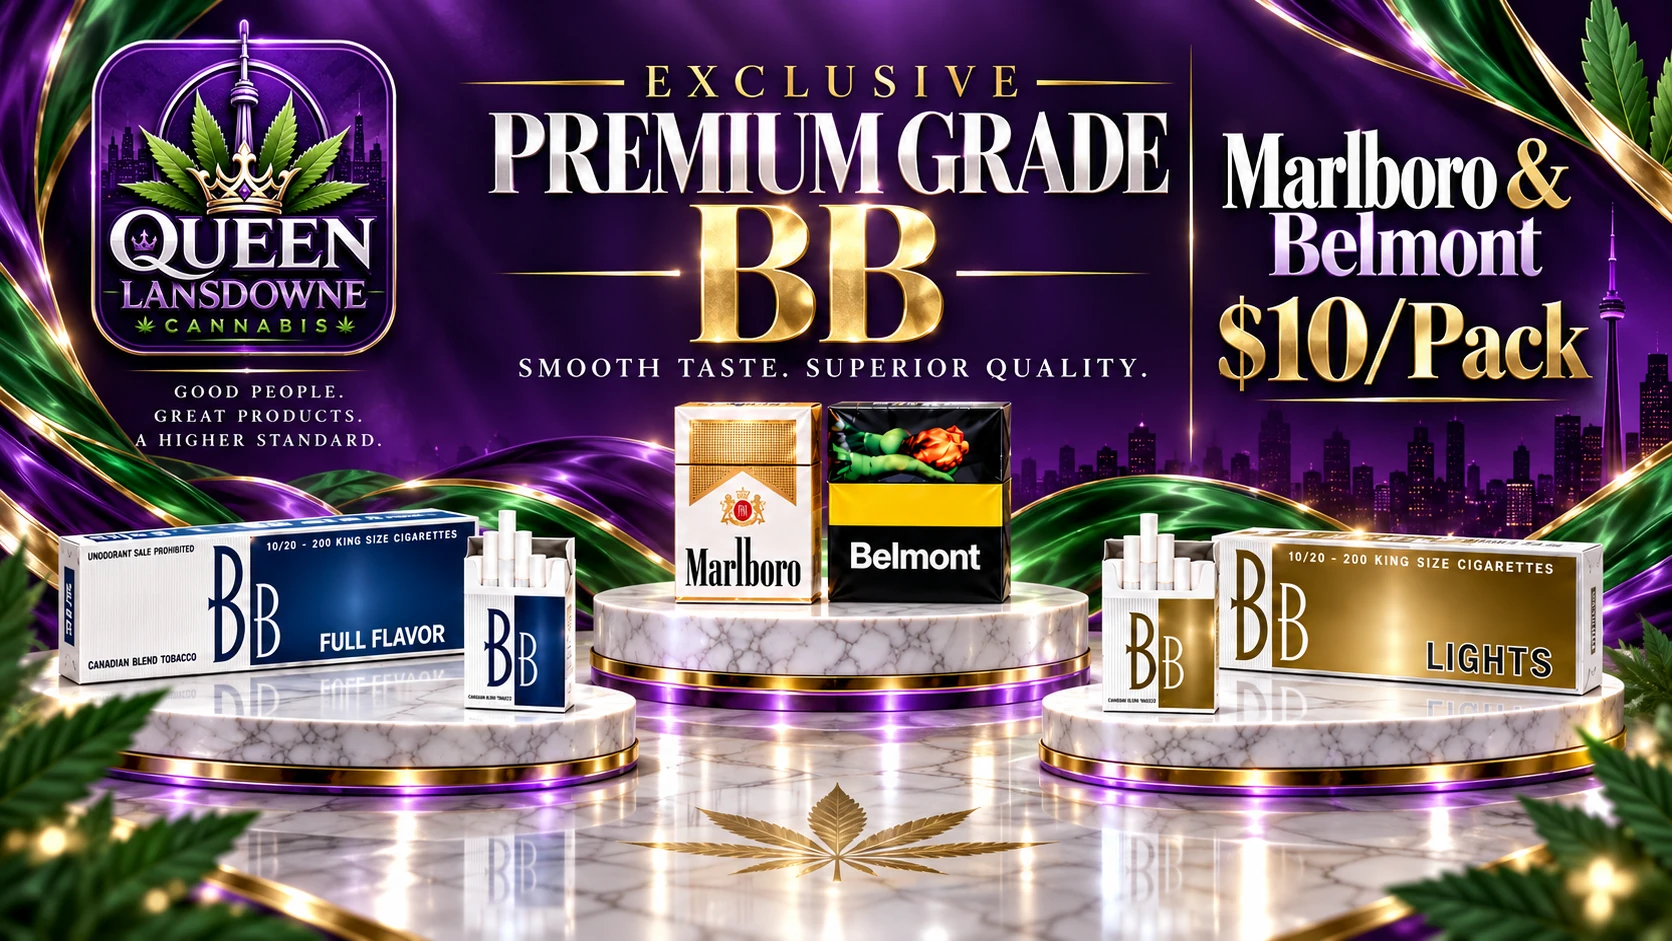
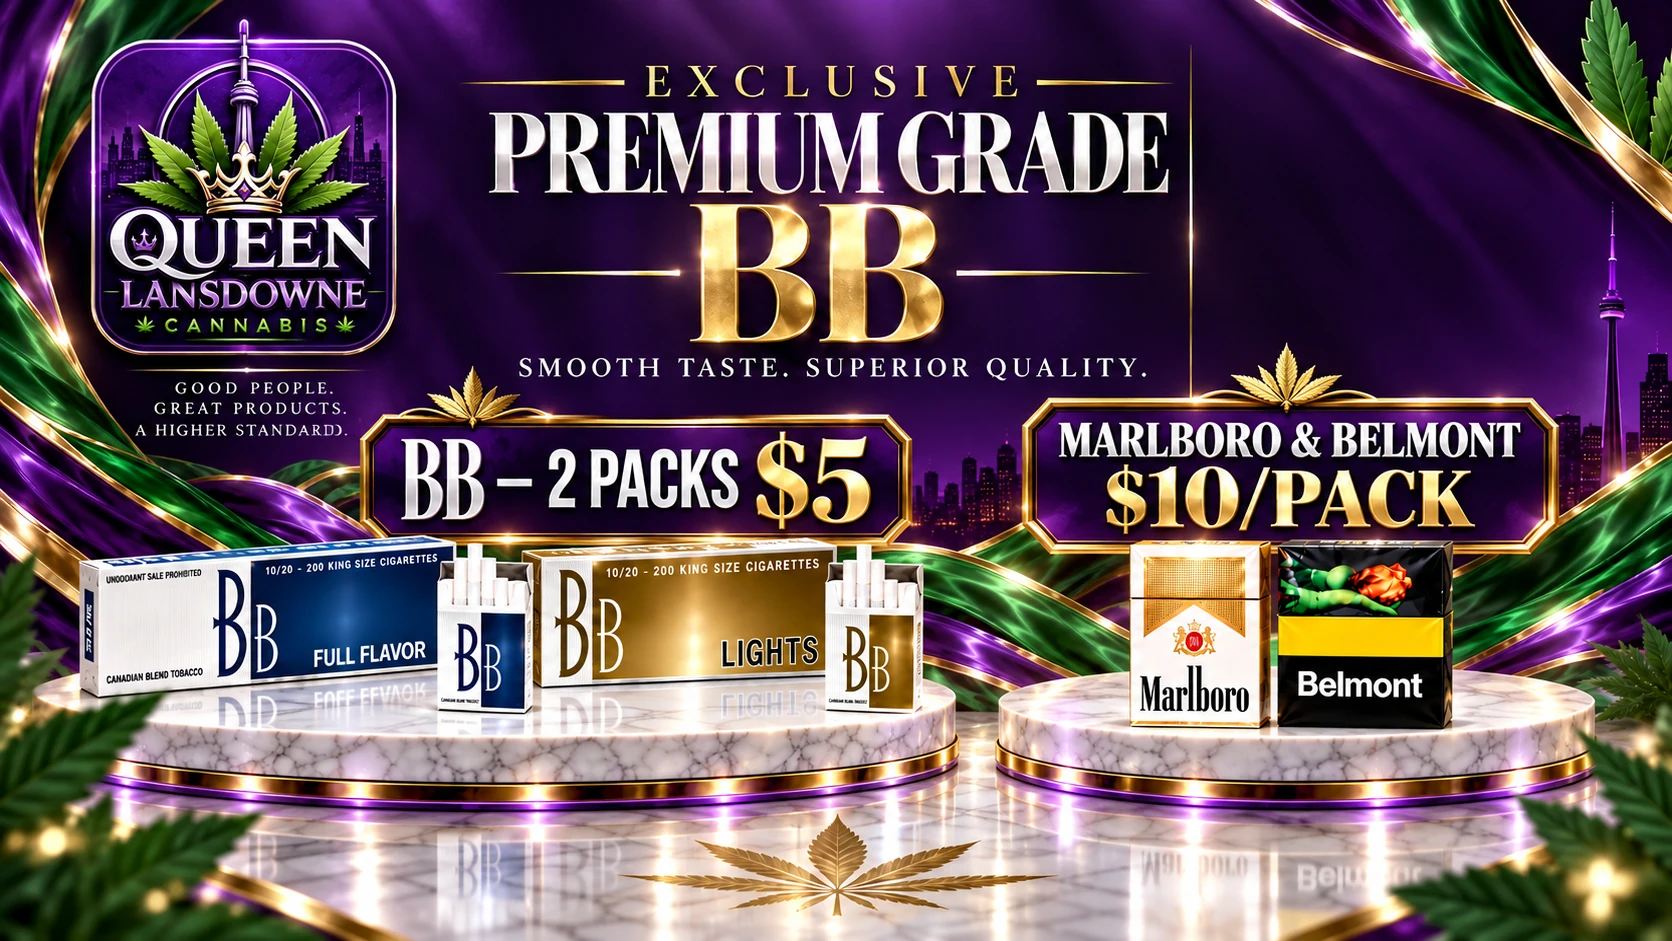
Add core promos to matching categories (#94)

diff --git a/app/components/CategoryCoreBanners.tsx b/app/components/CategoryCoreBanners.tsx
@@ -1,0 +1,52 @@
+import Link from "next/link";
+
+type CategoryCoreBannersProps = { kind: "weed" | "vapes" | "cigarettes" };
+
+const STORE_NAME = "Queen Lansdowne Cannabis";
+const STORE_AREA = "Queen Street West, Toronto";
+const STORE_ORIGIN = "https://www.queenlansdownecannabis.ca";
+const TOP_WEED_IMAGE = "/banners/top-weed-tier-qlc01.webp";
+const CIGARETTE_IMAGE = "/banners/native-cigarette-offer-20260822.webp";
+const VAPE_IMAGE = "/banners/core-vapes-nicotine-thc.webp";
+const PREMIUM_CIGARETTE_IMAGE = "/banners/core-premium-bb-marlboro-belmont.webp";
+
+export const cigaretteCategoryImage = {
+  alt: `${STORE_NAME} in ${STORE_AREA} — 2 packs for $5 mix and match and $25 carton cigarette offer`,
+  title: `${STORE_NAME} cigarette offer — 2 packs $5 mix and match, $25 carton`,
+};
+
+const promos = {
+  weed: { image: TOP_WEED_IMAGE, href: "/exotic-weed", alt: `${STORE_NAME} in ${STORE_AREA} — Exotic, Premium and AAA+ top weed tiers`, title: `${STORE_NAME} top weed tiers — Exotic, Premium and AAA+`, caption: "Exotic, Premium and AAA+ weed", linkLabel: "Shop weed tiers", schemaName: `${STORE_NAME} top weed tiers`, schemaDescription: `Exotic, Premium and AAA+ weed tiers at ${STORE_NAME} in ${STORE_AREA}.` },
+  vapes: { image: VAPE_IMAGE, href: "/items/vapes", alt: `${STORE_NAME} in ${STORE_AREA} — nicotine vapes and THC vapes`, title: `${STORE_NAME} nicotine vapes and THC vapes`, caption: "Nicotine vapes + THC vapes", linkLabel: "Shop vapes", schemaName: `${STORE_NAME} nicotine and THC vapes`, schemaDescription: `Nicotine vapes and THC vapes at ${STORE_NAME} in ${STORE_AREA}.` },
+  cigarettes: { image: CIGARETTE_IMAGE, href: "/items/cigarettes", alt: cigaretteCategoryImage.alt, title: cigaretteCategoryImage.title, caption: "2 packs $5 mix & match · $25 carton", linkLabel: "Shop cigarettes", schemaName: `${STORE_NAME} cigarette mix and match`, schemaDescription: `Two packs for $5 mix and match and $25 carton cigarette offer at ${STORE_NAME} in ${STORE_AREA}.` },
+  premium: { image: PREMIUM_CIGARETTE_IMAGE, href: "/items/cigarettes", alt: `${STORE_NAME} in ${STORE_AREA} — BB Full Flavor and Lights 2 packs for $5, Marlboro and Belmont $10 per pack`, title: `${STORE_NAME} premium cigarettes — BB 2 packs $5, Marlboro and Belmont $10 per pack`, caption: "BB Full Flavor + Lights — 2 packs $5 · Marlboro & Belmont — $10/pack", linkLabel: "Shop cigarettes", schemaName: `${STORE_NAME} premium cigarette offer`, schemaDescription: `BB Full Flavor and Lights two packs for $5 plus Marlboro and Belmont for $10 per pack at ${STORE_NAME} in ${STORE_AREA}.` },
+} as const;
+
+const figureStyle = { margin: 0, width: "100%" } as const;
+const imageStyle = { display: "block", width: "100%", maxWidth: "100%", height: "auto" } as const;
+const captionStyle = { margin: 0, padding: "14px 18px", background: "#111827", color: "#ffffff", textAlign: "center" as const, fontSize: "clamp(17px, 1.7vw, 28px)", fontWeight: 800, lineHeight: 1.35 };
+const captionLinkStyle = { color: "inherit", textDecoration: "underline", textUnderlineOffset: "3px" } as const;
+
+function PromoFigure({ promo, renderImage = true }: { promo: (typeof promos)[keyof typeof promos]; renderImage?: boolean }) {
+  return (
+    <figure data-category-core-banner={promo === promos.premium ? "premium-cigarettes" : promo === promos.cigarettes ? "cigarettes" : promo === promos.vapes ? "vapes" : "weed"} style={figureStyle}>
+      {renderImage ? <Link href={promo.href} aria-label={promo.alt} style={{ display: "block", width: "100%" }}>
+        {/* eslint-disable-next-line @next/next/no-img-element */}
+        <img src={promo.image} alt={promo.alt} title={promo.title} style={imageStyle} loading="lazy" />
+      </Link> : null}
+      <figcaption style={captionStyle}>{promo.caption} · <Link href={promo.href} style={captionLinkStyle}>{promo.linkLabel}</Link></figcaption>
+    </figure>
+  );
+}
+
+export default function CategoryCoreBanners({ kind }: CategoryCoreBannersProps) {
+  const visiblePromos = kind === "cigarettes" ? [promos.cigarettes, promos.premium] : [promos[kind]];
+  const imageObjects = visiblePromos.map((promo) => ({ "@type": "ImageObject", name: promo.schemaName, description: promo.schemaDescription, contentUrl: `${STORE_ORIGIN}${promo.image}` }));
+  return (
+    <section data-category-core-promos={kind} aria-label={`${STORE_NAME} ${kind} promotions`} style={{ width: "100%", maxWidth: "100%", overflowX: "hidden", marginBottom: "24px" }}>
+      <script type="application/ld+json" dangerouslySetInnerHTML={{ __html: JSON.stringify({ "@context": "https://schema.org", "@graph": imageObjects }).replace(/</g, "\\u003c") }} />
+      {kind === "cigarettes" ? <PromoFigure promo={promos.cigarettes} renderImage={false} /> : <PromoFigure promo={promos[kind]} />}
+      {kind === "cigarettes" ? <PromoFigure promo={promos.premium} /> : null}
+    </section>
+  );
+}

diff --git a/app/components/FleetAnnouncementBanner.tsx b/app/components/FleetAnnouncementBanner.tsx
@@ -16,7 +16,7 @@ const imageObjects = [
   { name: `${STORE_NAME} top weed tiers`, description: `Exotic, Premium and AAA+ weed tiers at ${STORE_NAME} in ${STORE_AREA}.`, contentUrl: `${STORE_ORIGIN}${TOP_WEED_IMAGE}` },
   { name: `${STORE_NAME} nicotine and THC vapes`, description: `Nicotine vapes and THC vapes at ${STORE_NAME} in ${STORE_AREA}.`, contentUrl: `${STORE_ORIGIN}${VAPE_IMAGE}` },
   { name: `${STORE_NAME} cigarette mix and match`, description: `Two packs for $5 mix and match and $25 carton cigarette offer at ${STORE_NAME} in ${STORE_AREA}.`, contentUrl: `${STORE_ORIGIN}${CIGARETTE_IMAGE}` },
-  { name: `${STORE_NAME} premium cigarette offer`, description: `BB Full Flavor and Lights plus Marlboro and Belmont cigarette offer at ${STORE_NAME} in ${STORE_AREA}.`, contentUrl: `${STORE_ORIGIN}${PREMIUM_CIGARETTE_IMAGE}` },
+  { name: `${STORE_NAME} premium cigarette offer`, description: `BB Full Flavor and Lights two packs for $5 plus Marlboro and Belmont for $10 per pack at ${STORE_NAME} in ${STORE_AREA}.`, contentUrl: `${STORE_ORIGIN}${PREMIUM_CIGARETTE_IMAGE}` },
 ].map((image) => ({ "@type": "ImageObject", ...image }));
 
 function isThanksgivingNoticeActive(date: Date) {
@@ -29,7 +29,7 @@ function isThanksgivingNoticeActive(date: Date) {
 const figureStyle = { margin: 0, width: "100%" } as const;
 const imageStyle = { display: "block", width: "100%", maxWidth: "100%", height: "auto" } as const;
 const linkStyle = { display: "block", width: "100%" } as const;
-const captionStyle = { margin: 0, padding: "10px 14px", background: "#111827", color: "#ffffff", textAlign: "center" as const, fontWeight: 800, lineHeight: 1.35 };
+const captionStyle = { margin: 0, padding: "14px 18px", background: "#111827", color: "#ffffff", textAlign: "center" as const, fontSize: "clamp(17px, 1.7vw, 28px)", fontWeight: 800, lineHeight: 1.35 };
 const captionLinkStyle = { color: "inherit", textDecoration: "underline", textUnderlineOffset: "3px" } as const;
 
 export default function FleetAnnouncementBanner() {
@@ -72,9 +72,9 @@ export default function FleetAnnouncementBanner() {
       <figure data-core-banner="premium-cigarettes" data-premium-cigarette-banner="" style={figureStyle}>
         <Link href="/items/cigarettes" aria-label={`Shop BB, Marlboro and Belmont cigarette offers at ${STORE_NAME}`} style={linkStyle}>
           {/* eslint-disable-next-line @next/next/no-img-element */}
-          <img src={PREMIUM_CIGARETTE_IMAGE} alt={`${STORE_NAME} in ${STORE_AREA} — BB Full Flavor and Lights, Marlboro and Belmont premium cigarettes`} title={`${STORE_NAME} premium cigarettes — BB, Marlboro and Belmont`} style={imageStyle} loading="lazy" />
+          <img src={PREMIUM_CIGARETTE_IMAGE} alt={`${STORE_NAME} in ${STORE_AREA} — BB Full Flavor and Lights 2 packs for $5, Marlboro and Belmont $10 per pack`} title={`${STORE_NAME} premium cigarettes — BB 2 packs $5, Marlboro and Belmont $10 per pack`} style={imageStyle} loading="lazy" />
         </Link>
-        <figcaption style={captionStyle}>BB Full Flavor + Lights · Marlboro &amp; Belmont $10/pack · <Link href="/items/cigarettes" style={captionLinkStyle}>Shop cigarettes</Link></figcaption>
+        <figcaption style={captionStyle}>BB Full Flavor + Lights — 2 packs $5 · Marlboro &amp; Belmont — $10/pack · <Link href="/items/cigarettes" style={captionLinkStyle}>Shop cigarettes</Link></figcaption>
       </figure>
 
       <FlowerBogoStrip hero />

diff --git a/app/items/[category]/page.tsx b/app/items/[category]/page.tsx
@@ -4,6 +4,7 @@ import fs from "fs";
 import path from "path";
 import Link from "next/link";
 import Navbar from "../../components/Navbar";
+import CategoryCoreBanners, { cigaretteCategoryImage } from "../../components/CategoryCoreBanners";
 import Footer from "../../components/Footer";
 import { StoreMeshNav } from "../../components/StoreMeshNav";
 import SafeImage from "../../components/SafeImage";
@@ -88,7 +89,8 @@ export default async function ItemsCategoryPage({
           <>
             <img
               src={config.banner}
-              alt={config.name}
+              alt={catSlug === "cigarettes" ? cigaretteCategoryImage.alt : config.name}
+              title={catSlug === "cigarettes" ? cigaretteCategoryImage.title : config.name}
               style={{ width: "100%", height: "auto", display: "block", objectFit: "contain" }}
             />
             {["vapes", "vape-disposables", "cigarettes"].includes(catSlug) && (
@@ -107,6 +109,9 @@ export default async function ItemsCategoryPage({
           </div>
         )}
       </section>
+
+      {(catSlug === "vapes" || catSlug === "vape-disposables") && <CategoryCoreBanners kind="vapes" />}
+      {catSlug === "cigarettes" && <CategoryCoreBanners kind="cigarettes" />}
 
       {(catSlug === "vapes" || catSlug === "vape-disposables") && <VapeActionPanel compact />}
 

diff --git a/app/[tier]/page.tsx b/app/[tier]/page.tsx
@@ -4,6 +4,7 @@ import Link from "next/link";
 import fs from "fs";
 import path from "path";
 import Navbar from "../components/Navbar";
+import CategoryCoreBanners from "../components/CategoryCoreBanners";
 import Footer from "../components/Footer";
 import FlowerCard from "../components/FlowerCard";
 import {
@@ -119,6 +120,8 @@ export default async function TierPage({
           />
         </section>
       )}
+
+      {["EXOTIC", "PREMIUM", "AAA+"].includes(tierInfo.key.toUpperCase()) ? <CategoryCoreBanners kind="weed" /> : null}
 
       {/* ── Hero Content BELOW banner ── */}
       <section
